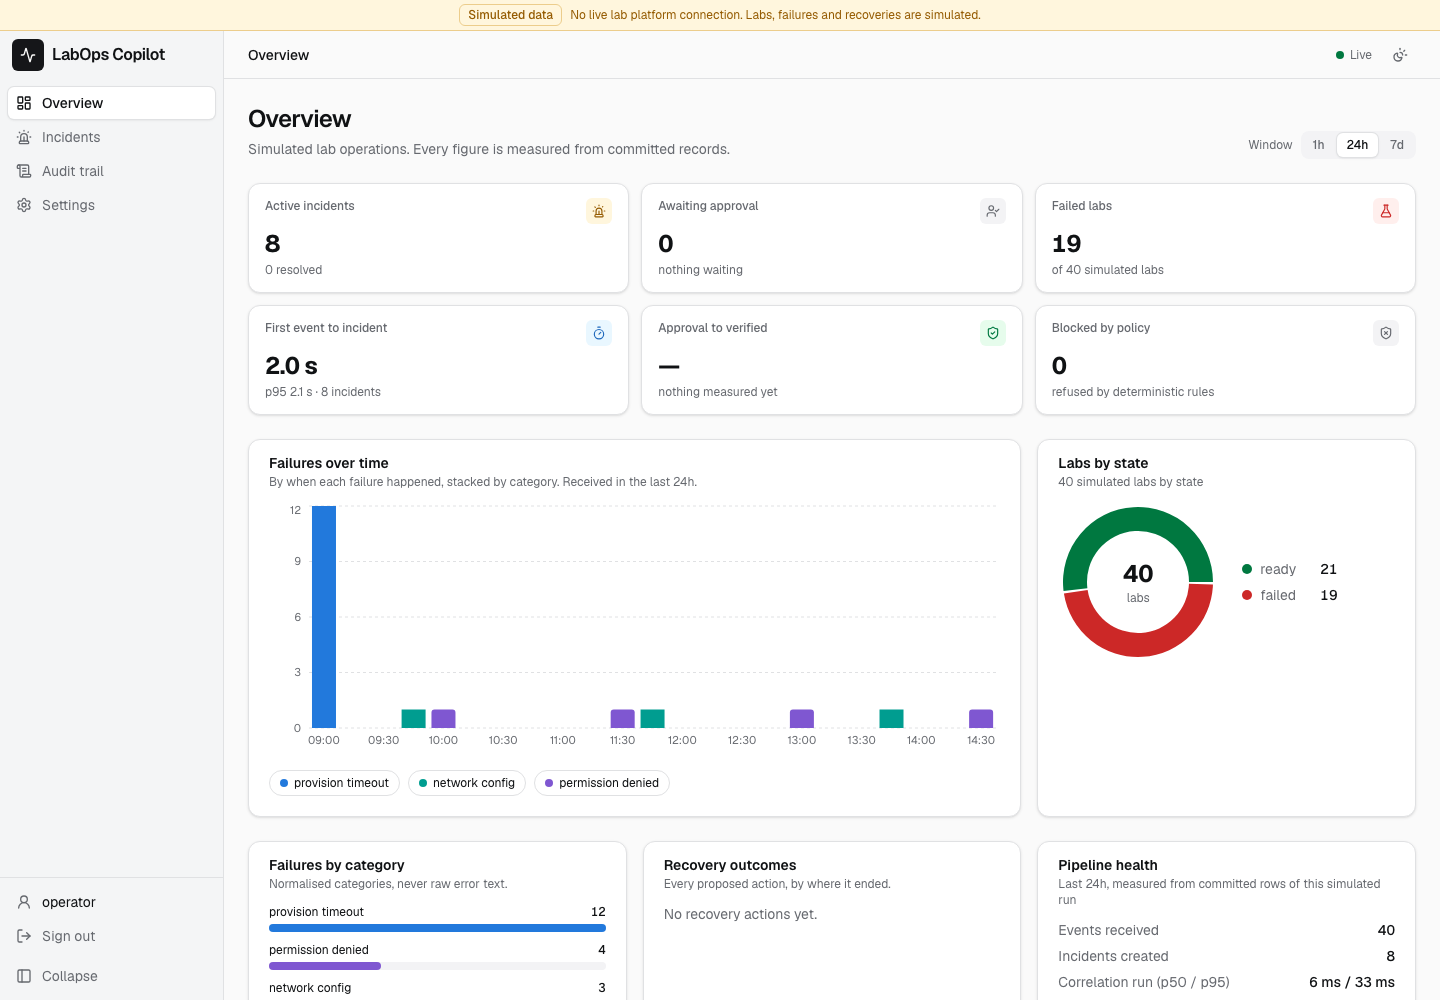
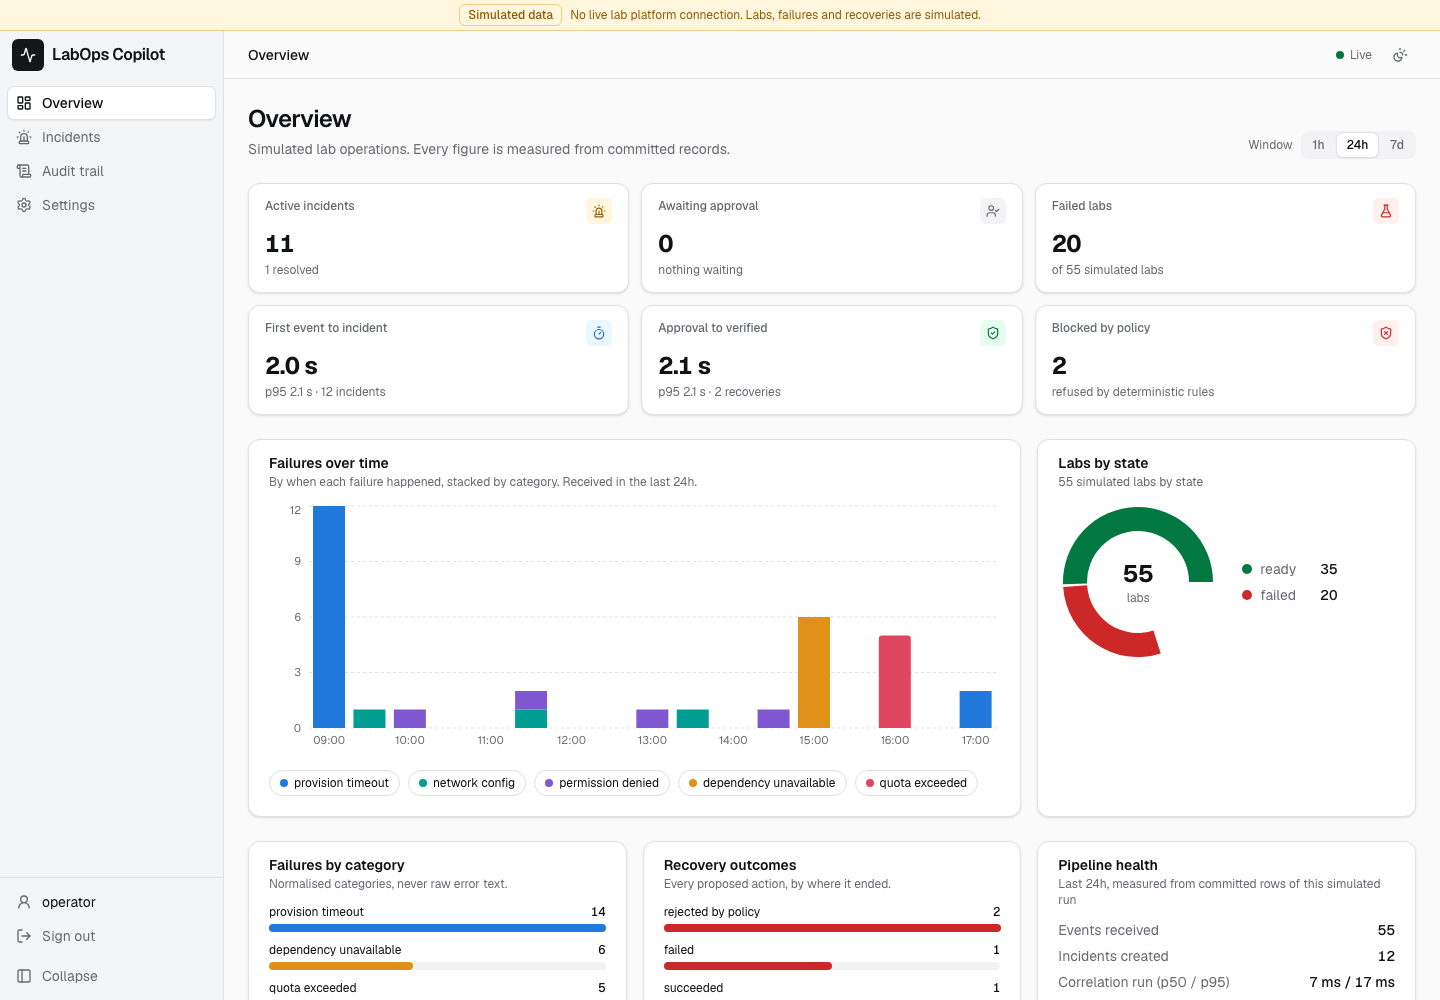
docs: list every demo path for reviewers and retake the screenshots

diff --git a/docs/specs/labops-copilot/ACCEPTANCE.md b/docs/specs/labops-copilot/ACCEPTANCE.md
@@ -11,7 +11,7 @@ A criterion with no automated proof is listed as a gap, not hidden.
 |---|---|---|
 | 1 | The same scenario twice gives the same labs, failures and incidents | `api/test/unit/modules/labs/simulator.test.ts` "produces byte-identical output for the same seed"; `api/test/integration/modules/demo/routes.int.test.ts` "is idempotent for the same seed" |
 | 2 | Failures sharing one dependency become one incident | `api/test/unit/modules/incidents/clustering.test.ts` "forms one 12-lab timeout incident and 7 single-lab incidents"; E2E "2. related failures group" |
-| 3 | Unrelated permission failures do not join it | `api/test/unit/modules/incidents/clustering.test.ts` "does not merge different categories, even on the same dependency"; `api/test/integration/modules/incidents/correlate.int.test.ts` "does not merge identical raw messages with different categories"; E2E "the permission failure stays apart" |
+| 3 | Unrelated permission failures do not join it | `api/test/unit/modules/incidents/clustering.test.ts` "does not merge different categories, even on the same dependency"; `api/test/integration/modules/incidents/correlate.int.test.ts` "does not merge identical raw messages with different categories"; E2E "the permission failure stays apart"; `api/test/unit/modules/incidents/clustering.test.ts` "forms a 6-lab outage, a 5-lab quota incident and two lookalikes apart" (same category and dependency, too far apart in time); E2E "lookalike failures far apart in time stay separate" |
 | 4 | Every affected lab shows why it was included and its link strength | `api/test/integration/modules/incidents/correlate.int.test.ts` "merges different messages with the same category, with readable reasons"; E2E "3. each lab shows why it was included and how strongly" |
 | 5 | The same event twice appears once and creates no extra incident | `api/test/integration/modules/events/routes.int.test.ts` "returns 201 for a new event and 200 for its redelivery"; `api/test/integration/platform/jobs/jobs.int.test.ts` "collapses duplicate sends of one key into one job"; `api/test/integration/modules/metrics/metrics.int.test.ts` counts the scenario's redelivery once |
 | 6 | An investigation shows cause, supporting evidence, missing or contradicting evidence, and uncertainty | `api/test/integration/modules/investigations/investigate.int.test.ts` "stores a fixture diagnosis and hands its action to policy"; E2E "4. the investigation shows cause, evidence and uncertainty" |
@@ -23,7 +23,7 @@ A criterion with no automated proof is listed as a gap, not hidden.
 | 12 | Approve clicked twice, or two operators at once, runs once | `api/test/integration/modules/recovery/approve.int.test.ts` "queues one job when two approvals race"; `api/test/integration/modules/recovery/execute.int.test.ts` "changes nothing when the same job runs again"; E2E step 7 (double click, one approval, one start) |
 | 13 | Lab state changed after approval blocks execution and shows why | `api/test/integration/modules/recovery/execute.int.test.ts` "blocks %s" ("a lab that changed after approval") (blocked at `state`, audited) |
 | 14 | An approval past its expiry cannot run | `api/test/integration/modules/recovery/approve.int.test.ts` "expires a late approval and sends the incident to manual review"; `api/test/integration/modules/recovery/execute.int.test.ts` "blocks %s" ("an approval that expired before execution"); `api/test/integration/modules/recovery/expire.int.test.ts` |
-| 15 | Recovery whose verification fails does not resolve the incident | `api/test/integration/modules/recovery/execute.int.test.ts` "does not resolve an incident while any of its labs is still failed" and "never resolves through a read-only recheck" |
+| 15 | Recovery whose verification fails does not resolve the incident | `api/test/integration/modules/recovery/execute.int.test.ts` "does not resolve an incident while any of its labs is still failed" and "never resolves through a read-only recheck"; `api/test/integration/modules/recovery/shared-outages.int.test.ts` (the live demo's license-server outage: an approved recheck runs, verification fails); E2E "a recheck that fixes nothing fails verification" |
 | 16 | Verification passing resolves the incident and shows before/after state | `api/test/integration/modules/recovery/execute.int.test.ts` "retries, verifies every lab is ready, and only then resolves"; E2E step 7 ("Before: 12 failed · After: 12 ready") |
 | 17 | The audit history lists every step with actor and time | `api/test/integration/modules/recovery/workflow.int.test.ts` (the incident's history holds every step, and none of another incident's); E2E "8. the timeline records every step with its actor", including the rejection |
 | 18 | A signed-out visitor cannot investigate, approve or reject | `api/test/integration/platform/auth/auth.int.test.ts` "rejects every non-public route without a session"; E2E "a signed-out visitor is sent to sign in" |

diff --git a/docs/dev/DESIGN.md b/docs/dev/DESIGN.md
@@ -8,10 +8,16 @@ measured numbers. The full design is [ARCHITECTURE.md](../../ARCHITECTURE.md).
 The plain-language walkthrough is in the [README](../../README.md#try-it).
 This is the developer view of the same run.
 
-The seeded **training-event** scenario: 40 simulated labs, a burst of 12
-provisioning timeouts on one shared image registry, scattered permission and
-network failures, and one redelivered event. The same seed gives the same
-labs, failures and incidents every run.
+Two seeded scenarios, 55 simulated labs. The same seed gives the same labs,
+failures and incidents every run.
+
+- **training-event** (40 labs): a burst of 12 provisioning timeouts on one
+  shared image registry, scattered permission and network failures, and one
+  redelivered event. The steps below follow it.
+- **shared-outages** (15 labs, later the same day on its own dependencies):
+  a 6-lab license-server outage, a 5-lab quota exhaustion, and two timeouts
+  on one artifact cache 25 minutes apart. It covers the paths the first never
+  takes; see [Every path](#every-path-one-incident-each) below.
 
 1. **Run demo scenario** on the overview. The tiles, the failure timeline and
    the labs donut fill in live; the burst is one tall bar on the timeline.
@@ -42,6 +48,27 @@ labs, failures and incidents every run.
    ![A retry blocked by policy](../images/policy-blocked.png)
 
 7. **The audit trail** records every step, with who or what did it and when.
+
+### Every path, one incident each
+
+What each seeded incident shows with the fixture model, and where it ends.
+Every state comes from the real pipeline; nothing is written in by hand.
+
+| Incident | Operator does | Path | Ends |
+|---|---|---|---|
+| `PROVISION_TIMEOUT on image-registry` (12) | Investigate, Approve | `RETRY_PROVISIONING` passes policy, waits for approval (30-minute expiry), retries, verifies | `resolved` |
+| the same | Investigate, Reject | the proposal is rejected; Investigate proposes again | `open` |
+| `PERMISSION_DENIED on lab …` (4 × 1) | Investigate | the fixture wrongly recommends a retry; policy blocks it at `state` | `manual_review` |
+| `NETWORK_CONFIG on lab …` (3 × 1) | Investigate | `insufficient_evidence`: one failure, no shared cause; nothing proposed | `open` |
+| `DEPENDENCY_UNAVAILABLE on license-server` (6) | Investigate, Approve | `RECHECK_DEPENDENCY`, targeting the dependency (server-side truth, not the model's lab list), passes policy and runs; a recheck changes no lab, so verification fails | `manual_review` |
+| the same, again within 5 minutes | Investigate | the same recheck is blocked at `rate_limit` (its cooldown) | `manual_review` |
+| `QUOTA_EXCEEDED on subscription-quota` (5) | Investigate | `ESCALATE_MANUAL`: no automated fix, so nothing is offered for approval | `manual_review` |
+| `PROVISION_TIMEOUT on artifact-cache` (2 × 1) | Open the later one | same category and dependency, 25 minutes apart: time scores 0, so 0.60 < 0.70; the near miss is shown | two incidents |
+
+Not reachable with the fixture model, so proven by tests instead (the
+[acceptance map](../specs/labops-copilot/ACCEPTANCE.md) names each one): model timeouts and malformed output, a target
+outside the incident, prompt injection in event text, the double-approval
+race, an approval expiring or blocked when re-checked at execution.
 
 ### Follow it through a trace and the logs
 

diff --git a/README.md b/README.md
@@ -48,9 +48,11 @@ LabOps Copilot shows one way to handle that, in eight steps:
 
 ## Try it
 
-Sign in to the [live demo](https://labops.onrender.com). It already holds one
-scenario: 40 simulated labs, of which 12 failed together because of one shared
-image registry, plus a few unrelated failures.
+Sign in to the [live demo](https://labops.onrender.com). It already holds 55
+simulated labs from two scenarios: 12 labs that failed together because of one
+shared image registry, two smaller outages, and failures that only look
+related. The steps below follow the 12; [every path](#every-path-one-incident-each)
+lists what each of the other incidents shows.
 
 1. **Overview.** Counts, a failure timeline and labs by state. The burst of 12
    is the tall bar. Light and [dark](docs/images/dashboard-dark.png) themes
@@ -78,6 +80,28 @@ image registry, plus a few unrelated failures.
    ![A suggested fix blocked by the safety rules](docs/images/policy-blocked.png)
 
 7. **Audit.** Every step, with who or what did it and when.
+
+### Every path, one incident each
+
+Each incident on the demo takes a different route through the safety rules.
+Open it from **Incidents** and do what the middle column says.
+
+| Incident | Do this | What you should see |
+|---|---|---|
+| **PROVISION_TIMEOUT on image-registry** (12 labs) | Investigate, then Approve | The fix passes the rules and waits for you, with a 30-minute countdown. Approved, it runs, every lab is checked, and the incident closes. |
+| the same, instead | Investigate, then Reject, or leave it 30 minutes | Nothing runs. A rejection reopens the incident; an expired approval sends it to a person. Either way, Investigate again for a fresh suggestion. |
+| **PERMISSION_DENIED** (any of 4) | Investigate | The AI gets it wrong and suggests a retry. The rules refuse it: a retry cannot fix missing permissions. |
+| **NETWORK_CONFIG** (any of 3) | Investigate | One failure on its own is not enough to go on, so the AI suggests nothing. |
+| **DEPENDENCY_UNAVAILABLE on license-server** (6 labs) | Investigate, then Approve | The AI suggests re-checking the license server. You approve, it runs, and the check still fails: checking a server does not fix the labs. The incident stays open for a person. |
+| the same, straight after | Investigate again | The same check is refused: it ran less than 5 minutes ago. |
+| **QUOTA_EXCEEDED on subscription-quota** (5 labs) | Investigate | No safe automatic fix exists, so the AI hands it to a person. Nothing is offered for approval. |
+| **PROVISION_TIMEOUT on artifact-cache** (two incidents) | Open both | Same error, same cache, but 25 minutes apart, so they are kept separate. One says how close it came to joining the other. |
+
+Some failures cannot be triggered from the demo, because its AI stand-in
+always answers correctly formed: a model that times out or returns garbage, one
+that names a lab outside the incident, text in a log trying to give the AI
+orders, two people approving at once. Each has an automated test; the
+[acceptance map](docs/specs/labops-copilot/ACCEPTANCE.md) names them.
 
 ---
 

diff --git a/docs/dev/QUALITY.md b/docs/dev/QUALITY.md
@@ -11,7 +11,7 @@ Test layers mirror architectural boundaries, so a failure points at one:
 |---|---|
 | Unit (Vitest) | Normalisation, dedup, correlation scoring, transitions, policy decisions, AI output validation, UI helpers |
 | Integration (Vitest, real Postgres + Redis) | Ingestion, queue and worker retries, correlation, investigation, approval races, execution and verification, audit, metrics, one-incident-one-trace |
-| End to end (Playwright) | The operator journey in a real browser against the built compose stack: grouping, the investigation, a rejection, a double-clicked approval that runs once, live verification with no reload, the policy block, the dashboard and its filter |
+| End to end (Playwright) | The operator journey in a real browser against the built compose stack: grouping, the investigation, a rejection, a double-clicked approval that runs once, live verification with no reload, the policy block, lookalike failures kept apart, a recheck that fails verification, the dashboard and its filter |
 
 Each SPEC acceptance criterion is mapped to the test that proves it in
 [`docs/specs/labops-copilot/ACCEPTANCE.md`](../specs/labops-copilot/ACCEPTANCE.md).

diff --git a/ARCHITECTURE.md b/ARCHITECTURE.md
@@ -1019,9 +1019,9 @@ Tests mirror the boundaries, so a failure points at a boundary.
 | Integration | Event ingestion → DB, ingestion → enqueue, worker retry/failure, approval + policy enforcement, execution + verification, audit writes, metrics, one incident one trace | Real Postgres + Redis (compose) |
 | E2E (Playwright) | Full operator journey, plus the negative cases visible in the UI | Fixture model, seeded scenario, the built compose stack |
 
-Determinism rules: a fixed seed produces an identical scenario (40 labs, 19
-failures, one redelivery)
-every run; the LLM is mocked in all CI tests with one opt-in job against a real
+Determinism rules: a fixed seed produces an identical scenario (the training
+event: 40 labs, 19 failures, one redelivery; shared outages: 15 labs, 13
+failures) every run; the LLM is mocked in all CI tests with one opt-in job against a real
 model; no test asserts on wall-clock timings or generated prose.
 
 The negative suite is as important as the happy path: unrelated-but-similar

diff --git a/docs/specs/labops-copilot/PLAN.md b/docs/specs/labops-copilot/PLAN.md
@@ -545,6 +545,11 @@ Work that followed the phases, one pull request each:
 - **Afterwards: the self-hosted stack removed.** The VM path (#38, #43) went,
   because the Render deploy alone serves the need; the hardening it brought
   stays.
+- **A second demo scenario, `shared-outages`:** 15 more labs, seeded beside the
+  training event, so a reviewer can click through every path the fixture model
+  reaches: a dependency recheck that fails verification, its cooldown, an
+  escalation, and a near-miss pair that stays apart (now shown on the incident
+  page). The paths are listed in `docs/dev/DESIGN.md`.
 
 `docs/infra/DEPLOYMENT.md` records how each deploy runs and what is unverified.
 
